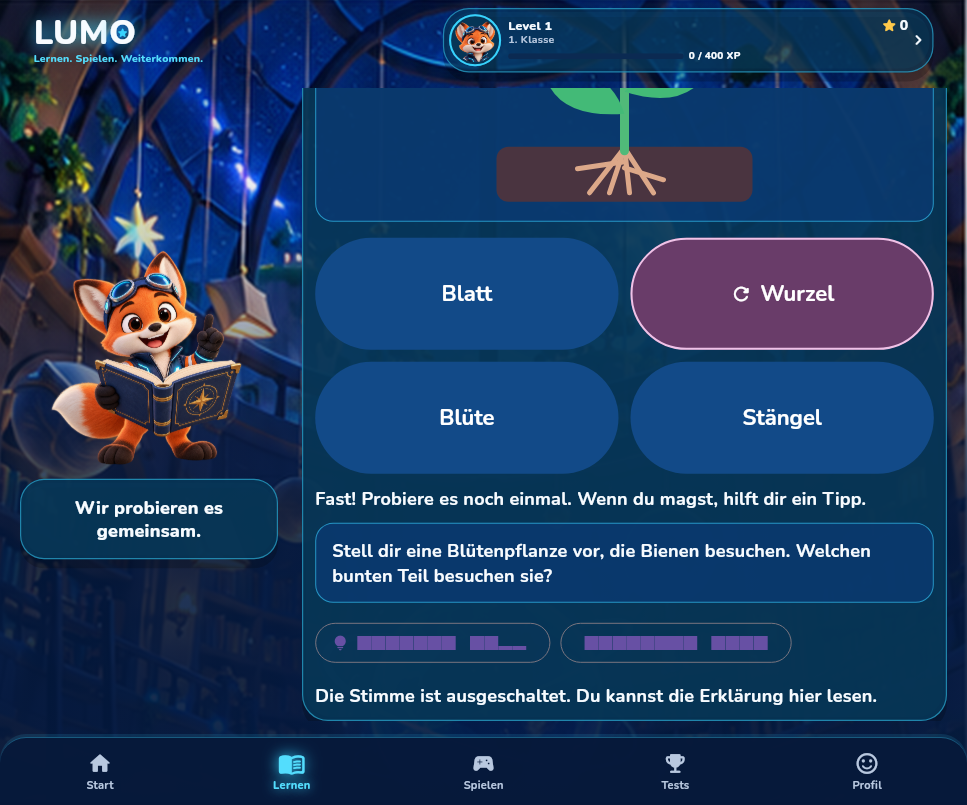
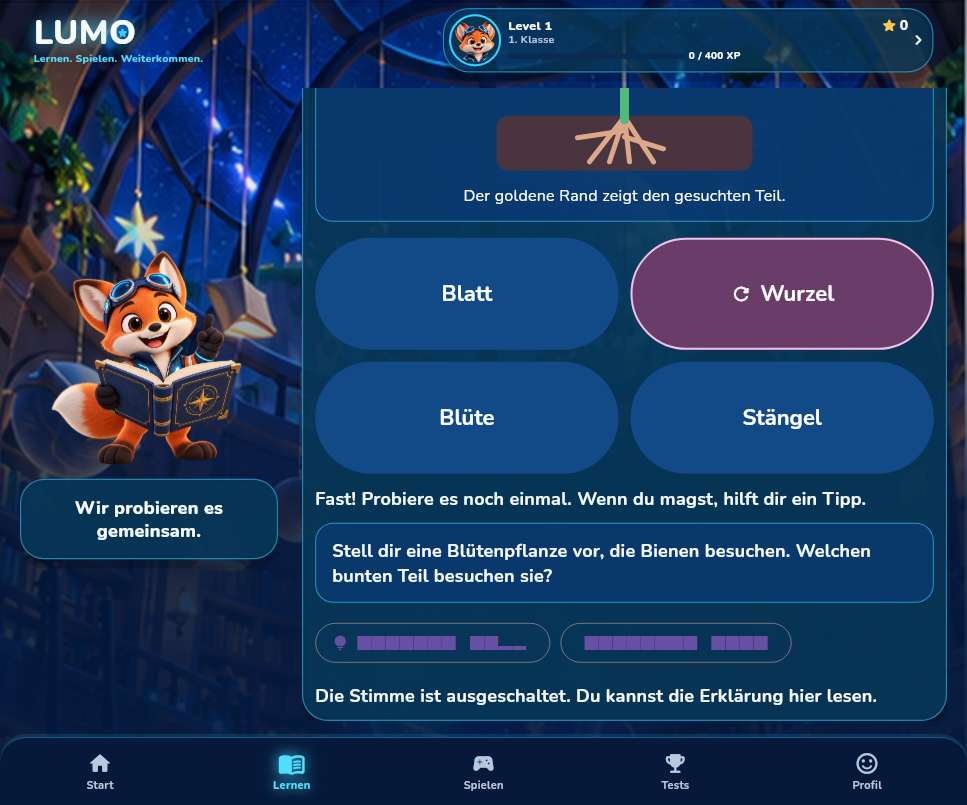
fix(tutoring): mark plant targets without contradicting natural color hints

Changed region(s): [[0.4654, 0.0932, 0.8066, 0.2484]]

diff --git a/lib/features/tutoring/guided_language_nature_illustration.dart b/lib/features/tutoring/guided_language_nature_illustration.dart
@@ -112,6 +112,13 @@ class GuidedLanguageNatureIllustration extends StatelessWidget {
                 color: LumoVisualTokens.gold,
                 fontWeight: FontWeight.w900)),
       ],
+      if (step.isQuestion) ...[
+        const SizedBox(height: 8),
+        const Text('Der goldene Rand zeigt den gesuchten Teil.',
+            textAlign: TextAlign.center,
+            style: TextStyle(
+                fontFamily: 'Nunito', color: Colors.white, fontSize: 16)),
+      ],
     ]));
   }
 }
@@ -134,19 +141,31 @@ class GuidedFlowerPainter extends CustomPainter {
             const Rect.fromLTWH(12, 170, 256, 55), const Radius.circular(12)),
         soil);
     Paint part(GuidedPlantPart part, Color color, {double width = 5}) => Paint()
-      ..color = target == part
-          ? Color.lerp(color, LumoVisualTokens.gold, highlight)!
-          : color
+      ..color = color
       ..strokeWidth = width
       ..strokeCap = StrokeCap.round;
+    Paint marker(double width) => Paint()
+      ..color = LumoVisualTokens.gold.withValues(alpha: highlight)
+      ..strokeWidth = width
+      ..strokeCap = StrokeCap.round
+      ..style = PaintingStyle.stroke;
+    void line(Offset from, Offset to, Paint color, GuidedPlantPart part) {
+      if (target == part)
+        canvas.drawLine(from, to, marker(color.strokeWidth + 6));
+      canvas.drawLine(from, to, color);
+    }
+
     final root = part(GuidedPlantPart.root, const Color(0xFFDCA889));
     for (final x in [105.0, 125.0, 145.0, 169.0]) {
-      canvas.drawLine(const Offset(140, 171), Offset(x, 216), root);
+      line(const Offset(140, 171), Offset(x, 216), root, GuidedPlantPart.root);
     }
-    canvas.drawLine(const Offset(140, 185), const Offset(93, 192), root);
-    canvas.drawLine(const Offset(140, 191), const Offset(179, 203), root);
+    line(const Offset(140, 185), const Offset(93, 192), root,
+        GuidedPlantPart.root);
+    line(const Offset(140, 191), const Offset(179, 203), root,
+        GuidedPlantPart.root);
     final stem = part(GuidedPlantPart.stem, const Color(0xFF50BA79), width: 9);
-    canvas.drawLine(const Offset(140, 174), const Offset(140, 55), stem);
+    line(const Offset(140, 174), const Offset(140, 55), stem,
+        GuidedPlantPart.stem);
     final leaf = part(GuidedPlantPart.leaf, const Color(0xFF43BA77));
     final left = Path()
       ..moveTo(140, 137)
@@ -160,15 +179,17 @@ class GuidedFlowerPainter extends CustomPainter {
       ..close();
     canvas.drawPath(left, leaf);
     canvas.drawPath(right, leaf);
+    if (target == GuidedPlantPart.leaf) canvas.drawPath(left, marker(5));
     final petals = part(GuidedPlantPart.flower,
         variant == 0 ? const Color(0xFFFF83B5) : const Color(0xFFA999FF));
     final count = variant == 0 ? 6 : 8;
     for (var i = 0; i < count; i++) {
       final angle = i * math.pi * 2 / count;
-      canvas.drawCircle(
-          Offset(140 + math.cos(angle) * 24, 46 + math.sin(angle) * 24),
-          17,
-          petals);
+      final center =
+          Offset(140 + math.cos(angle) * 24, 46 + math.sin(angle) * 24);
+      canvas.drawCircle(center, 17, petals);
+      if (target == GuidedPlantPart.flower)
+        canvas.drawCircle(center, 17, marker(5));
     }
     canvas.drawCircle(
         const Offset(140, 46), 16, Paint()..color = const Color(0xFFFFD96B));

diff --git a/test/tutoring/language_nature_lessons_test.dart b/test/tutoring/language_nature_lessons_test.dart
@@ -1,8 +1,33 @@
 import 'package:flutter_test/flutter_test.dart';
+import 'dart:ui' as ui;
+import 'package:flutter/material.dart';
+import 'package:lumo_lernen/features/tutoring/guided_language_nature_illustration.dart';
 import 'package:lumo_lernen/domain/tutoring/guided_lesson_catalog.dart';
 import 'package:lumo_lernen/domain/tutoring/tutoring_session_planner.dart';
 
 void main() {
+  test('the targeted leaf retains the green surface described in its hint',
+      () async {
+    final recorder = ui.PictureRecorder();
+    const painter = GuidedFlowerPainter(
+        target: GuidedPlantPart.leaf, variant: 1, highlight: 1);
+    painter.paint(Canvas(recorder), const Size(280, 230));
+    final picture = recorder.endRecording();
+    final image = await picture.toImage(280, 230);
+    try {
+      final bytes = await image.toByteData(format: ui.ImageByteFormat.rawRgba);
+      final offset = (115 * 280 + 105) * 4;
+      expect(bytes!.buffer.asUint8List().sublist(offset, offset + 3),
+          [0x43, 0xBA, 0x77]);
+      final step = GuidedLessonCatalog.plantParts.steps.firstWhere(
+          (s) => s.isIndependent && s.plantPart == GuidedPlantPart.leaf);
+      expect(step.help(level: 1), contains('grünen Flächen'));
+      expect(step.help(level: 1), isNot(contains('Blatt')));
+    } finally {
+      image.dispose();
+      picture.dispose();
+    }
+  });
   test('syllable answers have independently checked spoken segmentation', () {
     const expected = {'Sonne': 2, 'Tomate': 3, 'Blume': 2, 'Rakete': 3};
     for (final step

diff --git a/docs/education/2026-10-12-language-nature/README.md b/docs/education/2026-10-12-language-nature/README.md
@@ -17,3 +17,9 @@ Bilder sind echte Flutter-Testlaufzeitaufnahmen, keine Android-, physischen Fold
 Offen: vollständige exakte CI, unabhängiger Review, neues Android-Update/Unterrichtsprüfung und APK-ZIP, physische Geräte, menschliche Sprachausgabe- und externe österreichische pädagogische Fachabnahme. Die zwei Piloten sind keine vollständige Lehrplanabdeckung.
 
 Ruling: unabhängige Folgearbeit im isolierten Branch während der unveränderte 1932-Kandidat gebaut/geprüft wird. Die Auslieferung1932 behält Priorität und wird durch diesen Branch nicht verändert. Enumbezeichnung GuidedLessonConcept ist jetzt fachneutral; vorhandene mathematische Themen, IDs, Mengen und Speicherfelder bleiben erhalten.
+
+## Unabhängiger Review und gezielte Reparatur
+
+Astra hat den gesamten Pilot-Diff read-only geprüft. Ein wichtiger Befund: Ein Blatt wurde gold eingefärbt, während Hilfe/Zugänglichkeit eine grüne Fläche beschrieben. Der echteRastertest reproduzierte gold statt grün; jetzt bleiben die natürlichen Farben erhalten und ein goldenerRand markiert das Ziel. Rasterregression plus sechs echte responsive Unterrichtsabläufe bestehen (11Prüfungen). Aussagen in Hinweisen, Diagramm und zugänglicher Beschreibung stimmen überein.
+
+Deferred minor: Bei den beiden neuen Beispielen wiederholt „Erklärung lesen“ derzeit den bereits angezeigten Erklärungstext. Das wird beim weiteren Unterrichtsfeinschliff bereinigt; es ist keine Lösungsvorgabe in selbstständigen Aufgaben.
